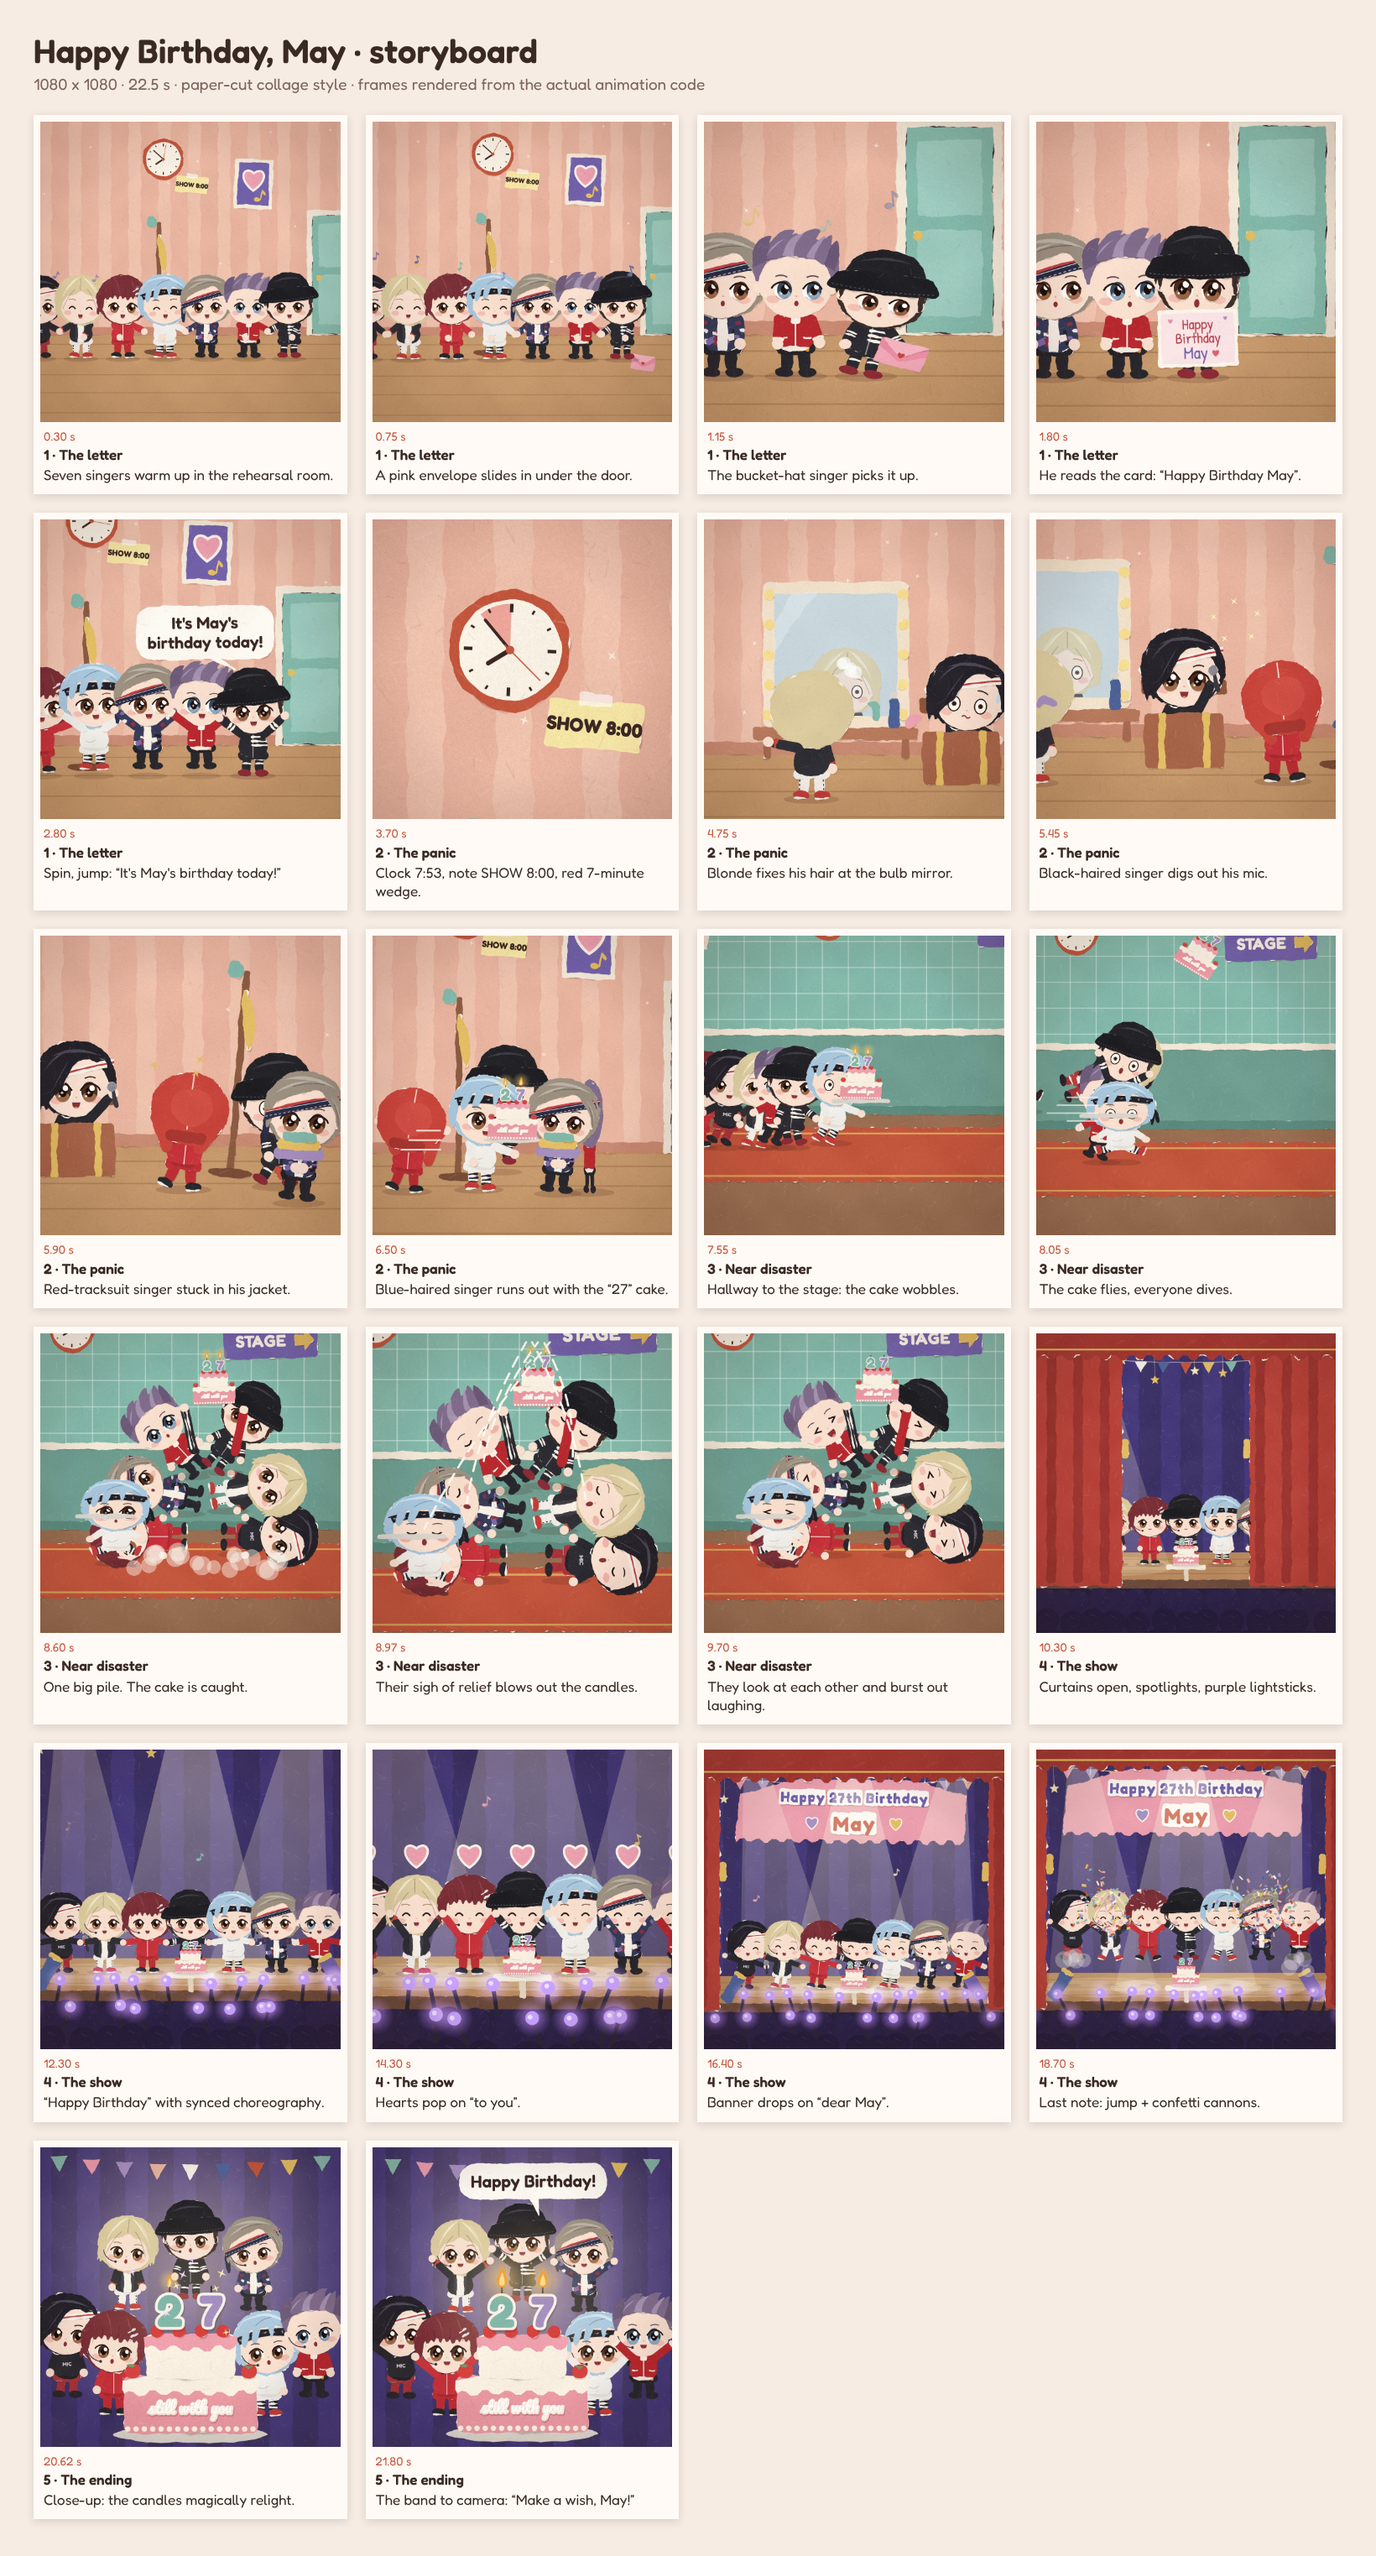
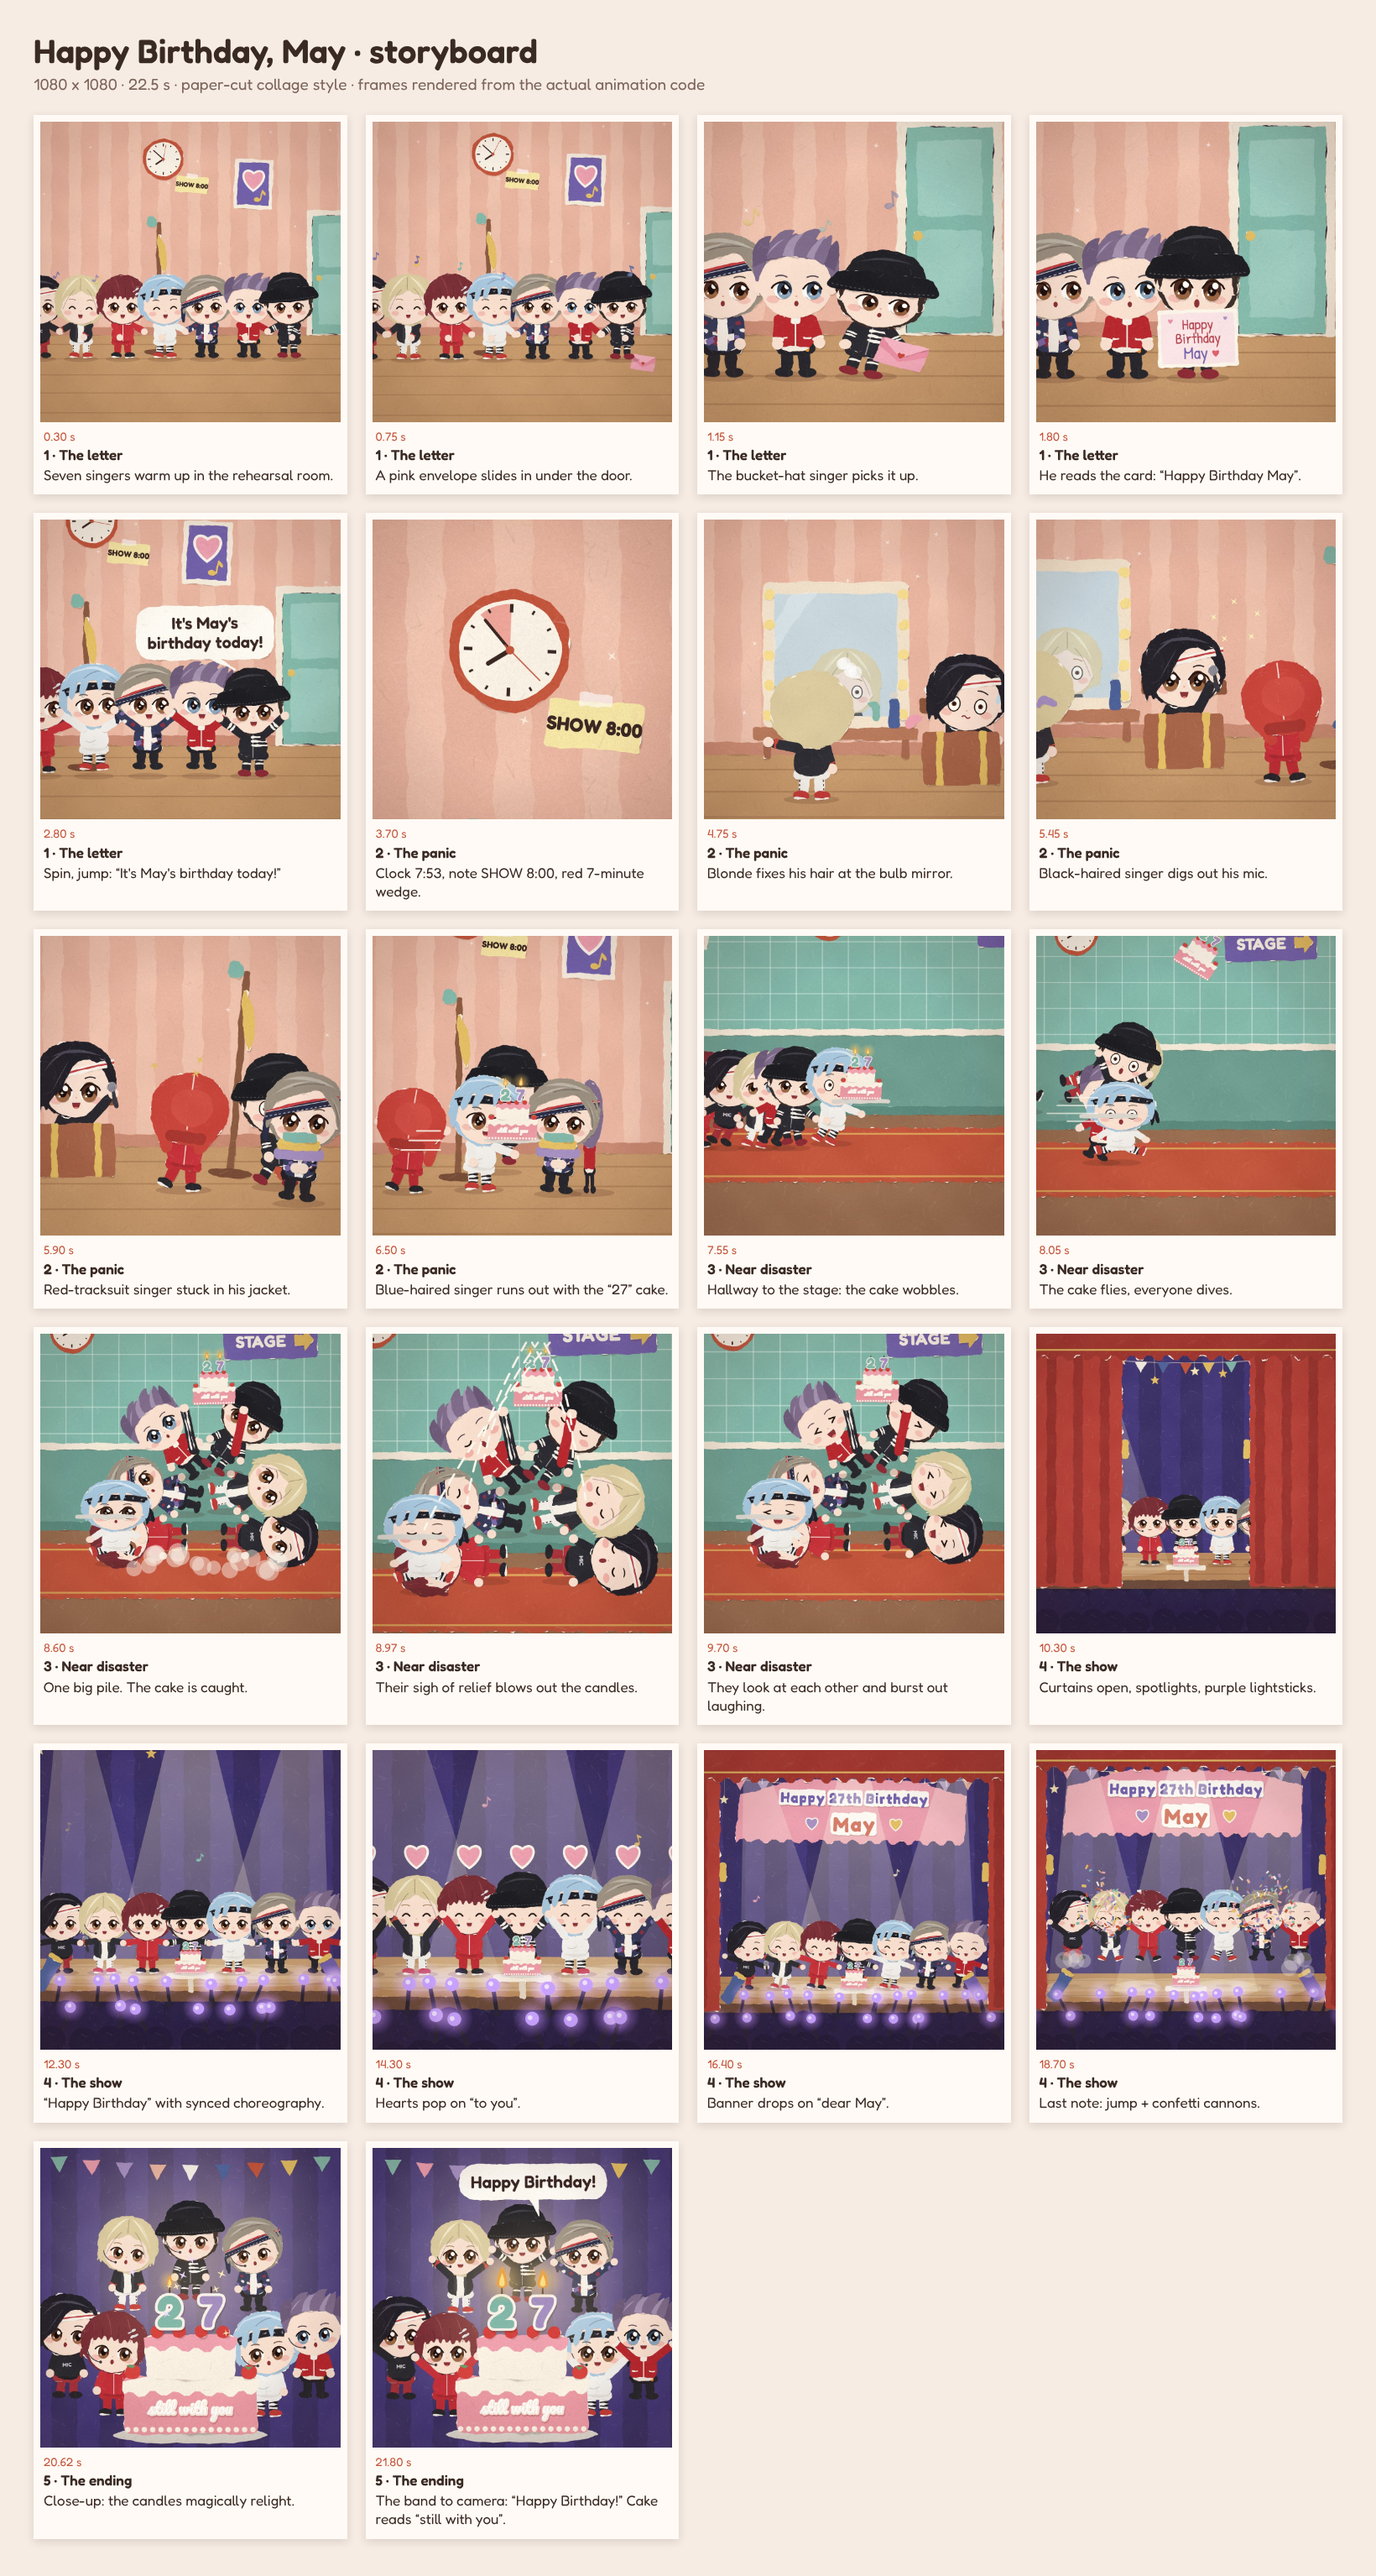
Storyboard: update ending caption and title
Claude-Session: https://claude.ai/code/session_01LMTxnSapAyEDzdbSzqoFMS

Changed region(s): [[0.0311, 0.0624, 0.9951, 0.998], [0.3421, 0.0312, 0.3732, 0.0624], [0.0933, 0.0312, 0.1244, 0.0624]]

diff --git a/film/storyboard/storyboard.html b/film/storyboard/storyboard.html
@@ -10,4 +10,4 @@ figcaption{display:flex;flex-direction:column;gap:2px;padding:8px 4px 0;font-siz
 .tc{font-size:14px;color:#c4563d;font-variant-numeric:tabular-nums} b{font-weight:600}
 </style></head><body><div class=wrap><h1>Happy Birthday, May · storyboard</h1>
 <p class=sub>1080 x 1080 · 22.5 s · paper-cut collage style · frames rendered from the actual animation code</p>
-<div class=grid><figure><img src="panels/p00.jpg"><figcaption><span class="tc">0.30 s</span><b>1 · The letter</b><span>Seven singers warm up in the rehearsal room.</span></figcaption></figure><figure><img src="panels/p01.jpg"><figcaption><span class="tc">0.75 s</span><b>1 · The letter</b><span>A pink envelope slides in under the door.</span></figcaption></figure><figure><img src="panels/p02.jpg"><figcaption><span class="tc">1.15 s</span><b>1 · The letter</b><span>The bucket-hat singer picks it up.</span></figcaption></figure><figure><img src="panels/p03.jpg"><figcaption><span class="tc">1.80 s</span><b>1 · The letter</b><span>He reads the card: “Happy Birthday May”.</span></figcaption></figure><figure><img src="panels/p04.jpg"><figcaption><span class="tc">2.80 s</span><b>1 · The letter</b><span>Spin, jump: “It's May's birthday today!”</span></figcaption></figure><figure><img src="panels/p05.jpg"><figcaption><span class="tc">3.70 s</span><b>2 · The panic</b><span>Clock 7:53, note SHOW 8:00, red 7-minute wedge.</span></figcaption></figure><figure><img src="panels/p06.jpg"><figcaption><span class="tc">4.75 s</span><b>2 · The panic</b><span>Blonde fixes his hair at the bulb mirror.</span></figcaption></figure><figure><img src="panels/p07.jpg"><figcaption><span class="tc">5.45 s</span><b>2 · The panic</b><span>Black-haired singer digs out his mic.</span></figcaption></figure><figure><img src="panels/p08.jpg"><figcaption><span class="tc">5.90 s</span><b>2 · The panic</b><span>Red-tracksuit singer stuck in his jacket.</span></figcaption></figure><figure><img src="panels/p09.jpg"><figcaption><span class="tc">6.50 s</span><b>2 · The panic</b><span>Blue-haired singer runs out with the “27” cake.</span></figcaption></figure><figure><img src="panels/p10.jpg"><figcaption><span class="tc">7.55 s</span><b>3 · Near disaster</b><span>Hallway to the stage: the cake wobbles.</span></figcaption></figure><figure><img src="panels/p11.jpg"><figcaption><span class="tc">8.05 s</span><b>3 · Near disaster</b><span>The cake flies, everyone dives.</span></figcaption></figure><figure><img src="panels/p12.jpg"><figcaption><span class="tc">8.60 s</span><b>3 · Near disaster</b><span>One big pile. The cake is caught.</span></figcaption></figure><figure><img src="panels/p13.jpg"><figcaption><span class="tc">8.97 s</span><b>3 · Near disaster</b><span>Their sigh of relief blows out the candles.</span></figcaption></figure><figure><img src="panels/p14.jpg"><figcaption><span class="tc">9.70 s</span><b>3 · Near disaster</b><span>They look at each other and burst out laughing.</span></figcaption></figure><figure><img src="panels/p15.jpg"><figcaption><span class="tc">10.30 s</span><b>4 · The show</b><span>Curtains open, spotlights, purple lightsticks.</span></figcaption></figure><figure><img src="panels/p16.jpg"><figcaption><span class="tc">12.30 s</span><b>4 · The show</b><span>“Happy Birthday” with synced choreography.</span></figcaption></figure><figure><img src="panels/p17.jpg"><figcaption><span class="tc">14.30 s</span><b>4 · The show</b><span>Hearts pop on “to you”.</span></figcaption></figure><figure><img src="panels/p18.jpg"><figcaption><span class="tc">16.40 s</span><b>4 · The show</b><span>Banner drops on “dear May”.</span></figcaption></figure><figure><img src="panels/p19.jpg"><figcaption><span class="tc">18.70 s</span><b>4 · The show</b><span>Last note: jump + confetti cannons.</span></figcaption></figure><figure><img src="panels/p20.jpg"><figcaption><span class="tc">20.62 s</span><b>5 · The ending</b><span>Close-up: the candles magically relight.</span></figcaption></figure><figure><img src="panels/p21.jpg"><figcaption><span class="tc">21.80 s</span><b>5 · The ending</b><span>The band to camera: “Make a wish, May!”</span></figcaption></figure></div></div></body></html>
+<div class=grid><figure><img src="panels/p00.jpg"><figcaption><span class="tc">0.30 s</span><b>1 · The letter</b><span>Seven singers warm up in the rehearsal room.</span></figcaption></figure><figure><img src="panels/p01.jpg"><figcaption><span class="tc">0.75 s</span><b>1 · The letter</b><span>A pink envelope slides in under the door.</span></figcaption></figure><figure><img src="panels/p02.jpg"><figcaption><span class="tc">1.15 s</span><b>1 · The letter</b><span>The bucket-hat singer picks it up.</span></figcaption></figure><figure><img src="panels/p03.jpg"><figcaption><span class="tc">1.80 s</span><b>1 · The letter</b><span>He reads the card: “Happy Birthday May”.</span></figcaption></figure><figure><img src="panels/p04.jpg"><figcaption><span class="tc">2.80 s</span><b>1 · The letter</b><span>Spin, jump: “It's May's birthday today!”</span></figcaption></figure><figure><img src="panels/p05.jpg"><figcaption><span class="tc">3.70 s</span><b>2 · The panic</b><span>Clock 7:53, note SHOW 8:00, red 7-minute wedge.</span></figcaption></figure><figure><img src="panels/p06.jpg"><figcaption><span class="tc">4.75 s</span><b>2 · The panic</b><span>Blonde fixes his hair at the bulb mirror.</span></figcaption></figure><figure><img src="panels/p07.jpg"><figcaption><span class="tc">5.45 s</span><b>2 · The panic</b><span>Black-haired singer digs out his mic.</span></figcaption></figure><figure><img src="panels/p08.jpg"><figcaption><span class="tc">5.90 s</span><b>2 · The panic</b><span>Red-tracksuit singer stuck in his jacket.</span></figcaption></figure><figure><img src="panels/p09.jpg"><figcaption><span class="tc">6.50 s</span><b>2 · The panic</b><span>Blue-haired singer runs out with the “27” cake.</span></figcaption></figure><figure><img src="panels/p10.jpg"><figcaption><span class="tc">7.55 s</span><b>3 · Near disaster</b><span>Hallway to the stage: the cake wobbles.</span></figcaption></figure><figure><img src="panels/p11.jpg"><figcaption><span class="tc">8.05 s</span><b>3 · Near disaster</b><span>The cake flies, everyone dives.</span></figcaption></figure><figure><img src="panels/p12.jpg"><figcaption><span class="tc">8.60 s</span><b>3 · Near disaster</b><span>One big pile. The cake is caught.</span></figcaption></figure><figure><img src="panels/p13.jpg"><figcaption><span class="tc">8.97 s</span><b>3 · Near disaster</b><span>Their sigh of relief blows out the candles.</span></figcaption></figure><figure><img src="panels/p14.jpg"><figcaption><span class="tc">9.70 s</span><b>3 · Near disaster</b><span>They look at each other and burst out laughing.</span></figcaption></figure><figure><img src="panels/p15.jpg"><figcaption><span class="tc">10.30 s</span><b>4 · The show</b><span>Curtains open, spotlights, purple lightsticks.</span></figcaption></figure><figure><img src="panels/p16.jpg"><figcaption><span class="tc">12.30 s</span><b>4 · The show</b><span>“Happy Birthday” with synced choreography.</span></figcaption></figure><figure><img src="panels/p17.jpg"><figcaption><span class="tc">14.30 s</span><b>4 · The show</b><span>Hearts pop on “to you”.</span></figcaption></figure><figure><img src="panels/p18.jpg"><figcaption><span class="tc">16.40 s</span><b>4 · The show</b><span>Banner drops on “dear May”.</span></figcaption></figure><figure><img src="panels/p19.jpg"><figcaption><span class="tc">18.70 s</span><b>4 · The show</b><span>Last note: jump + confetti cannons.</span></figcaption></figure><figure><img src="panels/p20.jpg"><figcaption><span class="tc">20.62 s</span><b>5 · The ending</b><span>Close-up: the candles magically relight.</span></figcaption></figure><figure><img src="panels/p21.jpg"><figcaption><span class="tc">21.80 s</span><b>5 · The ending</b><span>The band to camera: “Happy Birthday!” Cake reads “still with you”.</span></figcaption></figure></div></div></body></html>

diff --git a/film/storyboard/make_storyboard.py b/film/storyboard/make_storyboard.py
@@ -28,7 +28,7 @@ PANELS = [
     (16.40, "4 · The show", "Banner drops on “dear May”."),
     (18.70, "4 · The show", "Last note: jump + confetti cannons."),
     (20.62, "5 · The ending", "Close-up: the candles magically relight."),
-    (21.80, "5 · The ending", "The band to camera: “Make a wish, May!”"),
+    (21.80, "5 · The ending", "The band to camera: “Happy Birthday!” Cake reads “still with you”."),
 ]
 
 async def main():
